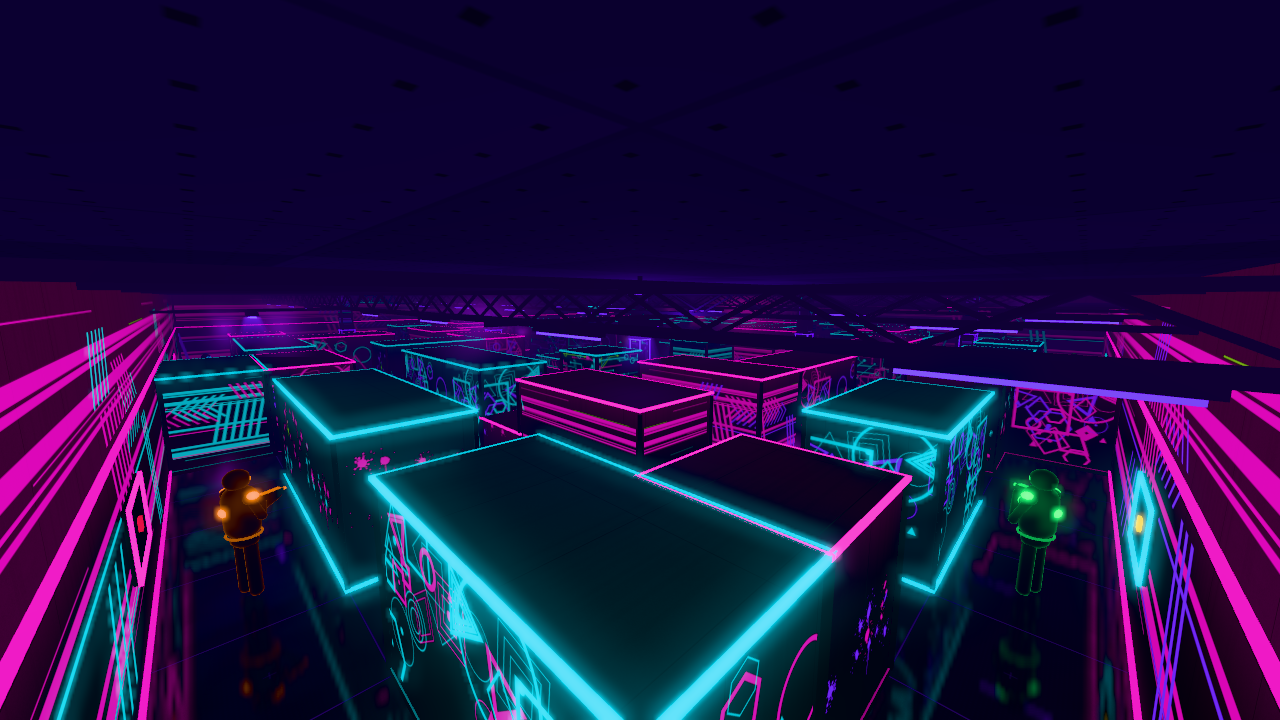
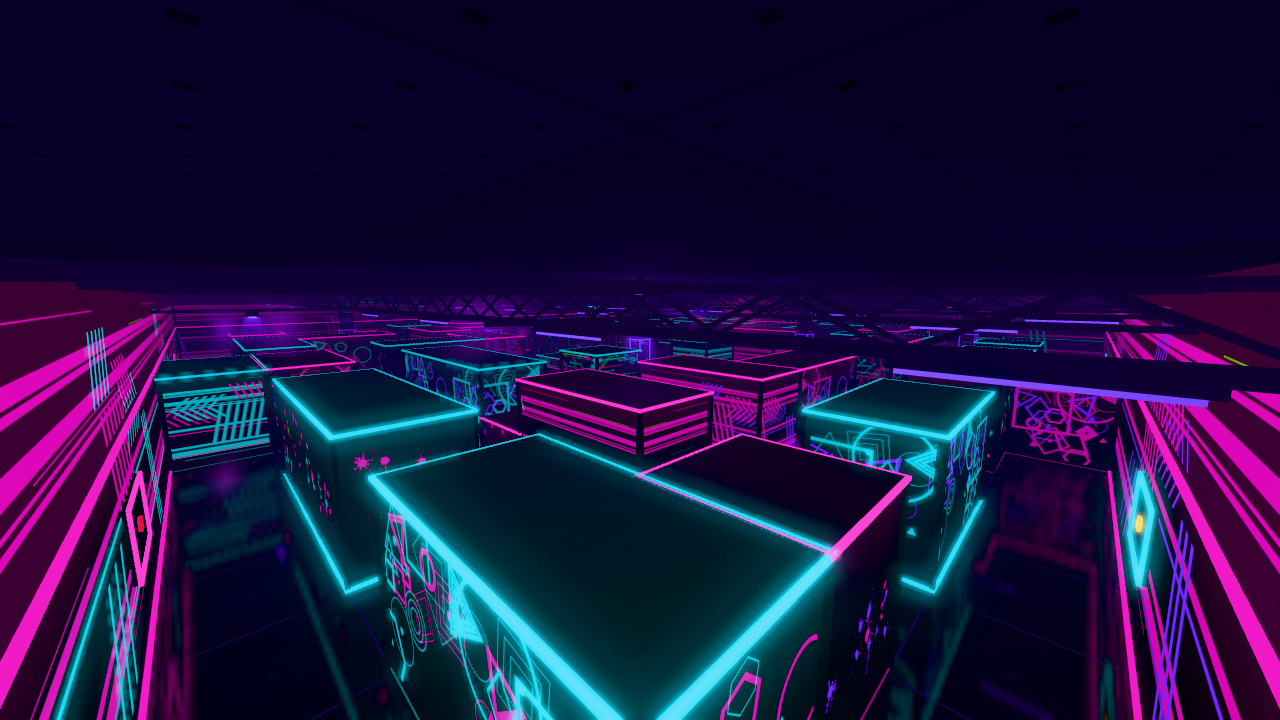
Raport 22:00: aktualne liczby testów i stan QA
Claude-Session: https://claude.ai/code/session_01AdB8daVQnwQrsSBW7UALhG

diff --git a/src/render/avatars.js b/src/render/avatars.js
@@ -7,16 +7,16 @@
 //    w kolorze uczestnika (instanceColor), + tani fresnel/rim w kolorze uczestnika (czytelna sylwetka w ciemności).
 //    aFx (na instancję) = mnożnik emisji: eliminacja → miganie, ochrona → pulsowanie.
 //  • sensory kamizelki — 4 instancje na uczestnika (front/back na klatce, lewe/prawe na ramionach,
-//    pozycje z CONFIG.combat.sensors), MeshBasicMaterial × instanceColor HDR: zapalony = kolor × sensorLit,
+//    pozycje z SENSOR_OFFSETS/CONFIG.combat.sensors), MeshBasicMaterial × instanceColor HDR: zapalony = kolor × sensorLit,
 //    zgaszony = ciemny, błysk = biały, eliminacja = miganie, ochrona = pulsowanie.
 // Model zwrócony w −Z (yaw = 0 patrzy w −Z, PLAN §0). sync bez alokacji (scratch na poziomie modułu).
 import * as THREE from 'three';
 import { mergeGeometries } from 'three/addons/utils/BufferGeometryUtils.js';
 import { CONFIG } from '../config.js';
-import { hexNumber } from './beams.js';
+import { hexNumber } from './color.js';
+import { SENSOR, SENSOR_OFFSETS, isSensorLit } from '../game/participant.js';
 
 const AV = CONFIG.avatar;
-const SENSOR_KEYS = ['front', 'back', 'left', 'right']; // = SENSOR {FRONT:0, BACK:1, LEFT:2, RIGHT:3}
 
 // scratch
 const _m = new THREE.Matrix4();
@@ -50,7 +50,7 @@ function limb(ax, ay, az, bx, by, bz, r, emit = 0) {
   const a = new THREE.Vector3(ax, ay, az), b = new THREE.Vector3(bx, by, bz);
   const d = b.clone().sub(a);
   const len = d.length();
-  const g = new THREE.CapsuleGeometry(r, Math.max(0.01, len), 3, 8);
+  const g = new THREE.CapsuleGeometry(r, Math.max(0.01, len), 2, 5);
   const m = new THREE.Matrix4().compose(
     a.clone().add(b).multiplyScalar(0.5),
     new THREE.Quaternion().setFromUnitVectors(new THREE.Vector3(0, 1, 0), d.normalize()),
@@ -64,12 +64,12 @@ function buildBodyGeometry() {
     // nogi + biodra
     limb(-0.11, 0.1, 0.0, -0.1, 0.78, 0.0, 0.085),
     limb(0.11, 0.1, 0.0, 0.1, 0.78, 0.0, 0.085),
-    part(new THREE.SphereGeometry(0.16, 12, 8), 0, trs(0, 0.86, 0, 0, 0, 0, 1.25, 0.7, 0.95)),
+    part(new THREE.SphereGeometry(0.16, 8, 5), 0, trs(0, 0.86, 0, 0, 0, 0, 1.25, 0.7, 0.95)),
     // tors (kamizelka): kapsuła spłaszczona
-    part(new THREE.CapsuleGeometry(0.2, 0.38, 4, 14), 0, trs(0, 1.27, 0, 0, 0, 0, 1.18, 1, 1.0)),
+    part(new THREE.CapsuleGeometry(0.2, 0.38, 3, 10), 0, trs(0, 1.27, 0, 0, 0, 0, 1.18, 1, 1.0)),
     // naramienniki
-    part(new THREE.SphereGeometry(0.095, 10, 8), 0, trs(-0.235, 1.5, 0, 0, 0, 0, 1, 0.85, 1)),
-    part(new THREE.SphereGeometry(0.095, 10, 8), 0, trs(0.235, 1.5, 0, 0, 0, 0, 1, 0.85, 1)),
+    part(new THREE.SphereGeometry(0.095, 7, 5), 0, trs(-0.235, 1.5, 0, 0, 0, 0, 1, 0.85, 1)),
+    part(new THREE.SphereGeometry(0.095, 7, 5), 0, trs(0.235, 1.5, 0, 0, 0, 0, 1, 0.85, 1)),
     // ramiona: fazer na wysokości barku (wylot = CONFIG.weapon.muzzleOffset względem oka — stąd startują wiązki botów)
     limb(0.25, 1.45, 0.0, 0.28, 1.22, -0.08, 0.06),
     limb(0.28, 1.22, -0.08, 0.2, 1.36, -0.15, 0.055),
@@ -77,16 +77,16 @@ function buildBodyGeometry() {
     limb(-0.25, 1.45, 0.0, -0.17, 1.08, -0.2, 0.06),
     limb(-0.17, 1.08, -0.2, 0.15, 1.37, -0.38, 0.055),
     // szyja + hełm + wizjer (emisyjny, łuk z przodu)
-    part(new THREE.CylinderGeometry(0.06, 0.07, 0.1, 8), 0, trs(0, 1.64, 0)),
-    part(new THREE.SphereGeometry(0.145, 14, 10), 0, trs(0, 1.75, 0.01, 0, 0, 0, 1, 1.02, 1.08)),
-    part(new THREE.CylinderGeometry(0.152, 0.148, 0.055, 14, 1, true, Math.PI - 0.95, 1.9), AV.visorIntensity, trs(0, 1.75, 0.005)),
+    part(new THREE.CylinderGeometry(0.06, 0.07, 0.1, 6, 1, true), 0, trs(0, 1.64, 0)),
+    part(new THREE.SphereGeometry(0.145, 10, 7), 0, trs(0, 1.75, 0.01, 0, 0, 0, 1, 1.02, 1.08)),
+    part(new THREE.CylinderGeometry(0.152, 0.148, 0.055, 10, 1, true, Math.PI - 0.95, 1.9), AV.visorIntensity, trs(0, 1.75, 0.005)),
     // pas (emisyjny, słaby) — linia talii czytelna z daleka
-    part(new THREE.TorusGeometry(0.205, 0.016, 6, 24), AV.trimIntensity * 0.6, trs(0, 0.95, 0, Math.PI / 2, 0, 0, 1.12, 0.92, 1)),
+    part(new THREE.TorusGeometry(0.205, 0.016, 3, 14), AV.trimIntensity * 0.6, trs(0, 0.95, 0, Math.PI / 2, 0, 0, 1.12, 0.92, 1)),
     // fazer w dłoniach (wylot ≈ (0.22, 1.47, −0.45))
     part(new THREE.BoxGeometry(0.07, 0.09, 0.36), 0, trs(0.2, 1.44, -0.25)),
     part(new THREE.BoxGeometry(0.045, 0.11, 0.055), 0, trs(0.2, 1.36, -0.14, 0.3, 0, 0)),
     part(new THREE.BoxGeometry(0.075, 0.016, 0.26), AV.trimIntensity, trs(0.2, 1.492, -0.27)),
-    part(new THREE.CylinderGeometry(0.024, 0.024, 0.05, 8), AV.visorIntensity, trs(0.21, 1.46, -0.445, Math.PI / 2, 0, 0)),
+    part(new THREE.CylinderGeometry(0.024, 0.024, 0.05, 6), AV.visorIntensity, trs(0.21, 1.46, -0.445, Math.PI / 2, 0, 0)),
   ];
   const g = mergeGeometries(parts, false);
   for (const p of parts) p.dispose();
@@ -95,7 +95,7 @@ function buildBodyGeometry() {
 
 // pad sensora: spłaszczona półkula, normalna wzdłuż +Z
 function buildSensorGeometry() {
-  const g = new THREE.SphereGeometry(1, 14, 8, 0, Math.PI * 2, 0, Math.PI / 2);
+  const g = new THREE.SphereGeometry(1, 8, 4, 0, Math.PI * 2, 0, Math.PI / 2);
   g.rotateX(Math.PI / 2); // biegun (+Y) → +Z
   g.scale(0.075, 0.06, 0.035);
   g.deleteAttribute('uv');
@@ -104,16 +104,15 @@ function buildSensorGeometry() {
 
 // lokalne macierze sensorów (model w −Z: przód = −Z, prawo = +X)
 function buildSensorLocals() {
-  const S = CONFIG.combat.sensors;
   const out = [];
   for (let i = 0; i < 4; i++) {
-    const o = S[SENSOR_KEYS[i]];
-    const x = o[0], y = o[1], z = -o[2];
+    // SENSOR_OFFSETS: x prawo, y od stóp, z przód → model: z = −przód
+    const x = SENSOR_OFFSETS[i * 3], y = SENSOR_OFFSETS[i * 3 + 1], z = -SENSOR_OFFSETS[i * 3 + 2];
     let rx = 0, ry = 0;
-    if (i === 0) ry = Math.PI;                 // przód: pad patrzy w −Z
-    else if (i === 1) ry = 0;                  // tył: +Z
-    else if (i === 2) { ry = -Math.PI / 2; rx = -0.75; } // lewe ramię: −X, uniesione ku górze
-    else { ry = Math.PI / 2; rx = -0.75; }     // prawe ramię: +X
+    if (i === SENSOR.FRONT) ry = Math.PI;      // przód: pad patrzy w −Z
+    else if (i === SENSOR.BACK) ry = 0;        // tył: +Z
+    else if (i === SENSOR.LEFT) { ry = -Math.PI / 2; rx = -AV.shoulderTilt; } // lewe ramię: −X, uniesione ku górze
+    else { ry = Math.PI / 2; rx = -AV.shoulderTilt; }                        // prawe ramię: +X
     const m = new THREE.Matrix4();
     const q = new THREE.Quaternion().setFromEuler(new THREE.Euler(rx, ry, 0, 'YXZ'));
     m.compose(new THREE.Vector3(x, y, z), q, new THREE.Vector3(1, 1, 1));
@@ -180,10 +179,9 @@ export function createAvatars(scene, maxCount) {
   sensors.count = 0;
 
   const locals = buildSensorLocals();
-  // ranga sensora w kolejności gaśnięcia: zgaszony, gdy rank < 4 − sensorsLit
-  const rank = new Int8Array(4);
-  const lose = CONFIG.combat.loseOrder;
-  for (let i = 0; i < 4; i++) rank[i] = lose.indexOf(SENSOR_KEYS[i]);
+  // cache koloru per slot instancji: hex liczony tylko przy zmianie stringu koloru (porównanie referencji)
+  const colStr = new Array(maxCount).fill(null);
+  const colRGB = new Float32Array(maxCount * 3);
 
   scene.add(body);
   scene.add(sensors);
@@ -213,18 +211,21 @@ export function createAvatars(scene, maxCount) {
       else if (P.protectTimer > 0) fx = 1 + AV.protectBoost * (0.5 + 0.5 * Math.sin(time * TAU * AV.protectPulseHz));
       fxAttr.array[j] = fx;
 
-      _c.setHex(hexNumber(P.color));
-      body.setColorAt(j, _c);
-      const cr = _c.r, cg = _c.g, cb = _c.b;
-
-      const lit = P.sensorsLit;
+      if (P.color !== colStr[j]) {
+        colStr[j] = P.color;
+        _c.setHex(hexNumber(P.color));
+        colRGB[j * 3] = _c.r; colRGB[j * 3 + 1] = _c.g; colRGB[j * 3 + 2] = _c.b;
+        body.setColorAt(j, _c);
+        body.instanceColor.needsUpdate = true;
+      }
+      const cr = colRGB[j * 3], cg = colRGB[j * 3 + 1], cb = colRGB[j * 3 + 2];
       for (let s = 0; s < 4; s++) {
         const k = j * 4 + s;
         _ms.multiplyMatrices(_m, locals[s]);
         sensors.setMatrixAt(k, _ms);
         let I;
         if (elim) I = AV.sensorLit * fx;
-        else if (rank[s] < 4 - lit) I = AV.sensorOff;
+        else if (!isSensorLit(P, s)) I = AV.sensorOff;
         else I = AV.sensorLit * (P.protectTimer > 0 ? fx : 1);
         _c.setRGB(cr * I, cg * I, cb * I);
         const fl = P.sensorFlash[s];
@@ -240,7 +241,6 @@ export function createAvatars(scene, maxCount) {
     body.count = j;
     sensors.count = j * 4;
     body.instanceMatrix.needsUpdate = true;
-    body.instanceColor.needsUpdate = true;
     sensors.instanceMatrix.needsUpdate = true;
     sensors.instanceColor.needsUpdate = true;
     fxAttr.needsUpdate = true;

diff --git a/src/config.js b/src/config.js
@@ -193,7 +193,7 @@ export const CONFIG = Object.freeze({
       rubber: { color: '#0b0a12', baseHeight: 0.1, baseDepth: 0.022, cornerSize: 0.06, cornerInset: 0.012, lineSize: 0.014, lineIntensity: 0.3 },
       paintMargin: { edge: 0.09, bottom: 0.17, strip: 0.09 },   // farba nie dochodzi do krawędzi/listew (m)
       neon: { nearMin: 0.6, near: [0.6, 3.5], fog: 0.65 },      // przygaszenie bliskich listew; udział mgły na listwach
-      ceilingPool: { radius: 3.2, strength: 0.15, panelRef: 0.006 },            // plamy światła lamp na stropie
+      ceilingPool: { radius: 2.8, strength: 0.06, panelRef: 0.006 },            // plamy światła lamp na stropie
       spawnPanel: { width: 1.6, height: 0.9, depth: 0.04, y: 1.45, intensity: 0.9, marker: 0.16 },
       floorRoughness: 0.75,         // × roughnessMap (≈0.6) → ~0.45 (półpołysk)
       floorMetalness: 0.2,
@@ -204,7 +204,7 @@ export const CONFIG = Object.freeze({
       envBakeHeight: 1.6,
       envBlur: 0.02,
       ceilingTile: 4.8,
-      ceilingGlow: 2.4,             // emisja paneli sufitu (tekstura × palette.uv)
+      ceilingGlow: 1.8,             // emisja paneli sufitu (tekstura × palette.uv)
       trussColor: '#2a2638',
       trussGlow: 0.035,             // emisja kratownicy (palette.uv) — sylwetki belek czytelne w ciemności
       trussSpacing: 4,
@@ -323,6 +323,7 @@ export const CONFIG = Object.freeze({
     sensorLit: 1.8,
     sensorOff: 0.035,
     sensorFlash: 4.0,
+    shoulderTilt: 0.75,       // rad — pochylenie padów na ramionach ku górze
     elimBlinkHz: 6,
     elimDim: 0.12,            // jasność w fazie „zgaszonej” mrugania
     protectPulseHz: 3,

diff --git a/src/ui/hud.js b/src/ui/hud.js
@@ -6,23 +6,11 @@
 // wskaźnik ochrony, feed eliminacji (ostatnie N, znikają), wynik gracza.
 import { CONFIG } from '../config.js';
 import { EV } from '../core/events.js';
+import { findParticipant } from '../game/sim.js';
+import { el } from './dom.js';
 
 const H = CONFIG.hud;
 const MAX_HP = CONFIG.combat.maxHp;
-
-function el(parent, cls, text) {
-  const e = document.createElement('div');
-  e.className = cls;
-  if (text) e.textContent = text;
-  parent.appendChild(e);
-  return e;
-}
-
-function findById(sim, id) {
-  const ps = sim.participants;
-  for (let i = 0; i < ps.length; i++) if (ps[i].id === id) return ps[i];
-  return null;
-}
 
 // kwantyzacja do kroku — mniej zapisów do DOM przy płynnych wartościach
 function q(v, step) { return Math.round(v / step) * step; }
@@ -112,7 +100,7 @@ export function createHud(rootEl) {
         if (e.a === id && e.b !== id) { hitT = H.hitmarkerTime; }
       } else if (e.type === EV.ELIM) {
         if (e.a === id && e.b !== id) { hitT = H.hitmarkerTime * 1.6; hitKill = 1; }
-        pushFeed(findById(sim, e.a), findById(sim, e.b), e.a === id || e.b === id ? 1 : 0);
+        pushFeed(findParticipant(sim, e.a), findParticipant(sim, e.b), e.a === id || e.b === id ? 1 : 0);
       }
     }
   }
@@ -196,7 +184,7 @@ export function createHud(rootEl) {
     const by = player.lastHitBy;
     if (by !== cElimBy) {
       cElimBy = by;
-      const k = by >= 0 && by !== player.id ? findById(sim, by) : null;
+      const k = by >= 0 && by !== player.id ? findParticipant(sim, by) : null;
       if (k) {
         elimBy.textContent = 'przez ' + k.name;
         elimBy.style.color = k.color;

diff --git a/docs/REPORT-22-00.md b/docs/REPORT-22-00.md
@@ -22,7 +22,7 @@ W repo **nie było `docs/SPEC.md` ani `reference/ref1–4.png`** (ani na Google 
 | **M3 Tryby** | `modes`, `match`, `menu`, `scoreboard`, `matchBar`, `endScreen`, `menu.css` | Pełny mecz od menu do ekranu końca w każdym trybie | Moduły i testy: ✅ (9)<br>**Integracja: ⏳** |
 | **M4 Mapy** | `maps/neonhive.js`, `maps/reactor.js` (2 poziomy, galeria 3.2 m, 4 rampy, rdzeń) | Pętla wizualna dla obu map; boty nawigują na obu poziomach | Dane i nawigacja: ✅ (100% osiągalności, 2000/2000 ścieżek, 623 międzypoziomowe)<br>**Render dekoracji i pętla wizualna: ⏳** |
 
-Testy: `npm test` daje **192 testy, 191 pass, 0 fail, 1 todo** (tunelowanie przy dt = 1 s — świadomie pominięte). `npm run smoke` daje **3 mapy × 4 presety: 0 błędów i ostrzeżeń konsoli, wszystko w budżecie, wycieki 0**.
+Testy: `npm test` daje **198 testów, 197 pass, 0 fail, 1 todo** (tunelowanie przy dt = 1 s — świadomie pominięte). `npm run smoke` daje **3 mapy × 4 presety: 0 błędów i ostrzeżeń konsoli, wszystko w budżecie, wycieki 0**.
 
 ## 2. Pętla wizualna (SPEC §6)
 
@@ -83,13 +83,9 @@ Broń FPP była przepalona — poprawione.
 1. **Jakość wizualna M0.** Dwie iteracje dały 4/12, a recenzenci są surowi i niezależni. Bez zdjęć referencyjnych kryterium „nastroju" (pkt 12) jest subiektywne. Plan: maksymalnie 2–3 kolejne iteracje, a jeśli punkt utknie, zapisuję to w raporcie.
 2. **Zrzuty w SwiftShader są wolne** (~30 s na kadr), co spowalnia pętlę wizualną.
 3. **Odbicie planarne a drugi poziom.** Lustro y = 0 nie działa z drugim poziomem (Reactor) — coder grafiki to obsługuje.
-4. **Ustalenia QA w toku:**
-   - obsługa `webglcontextlost` i braku WebGL;
-   - gubione krótkie kliknięcia (fire jako zbocze);
-   - sanityzacja wejścia pod M5;
-   - fazy kroku symulacji;
-   - duplikaty helperów;
-   - liczby poza CONFIG.
+4. **Ustalenia QA** (27 pozycji, 0 krytycznych):
+   - naprawione: serwer dev (crash na złym URL, ekspozycja `.git`), alokacje `pickSpawn` i botów, sanityzacja wejścia, 3 fazy kroku symulacji (pod M5);
+   - w toku: obsługa `webglcontextlost` i braku WebGL, fire jako zbocze, duplikaty helperów, liczby poza CONFIG.
 5. **Przy 16 uczestnikach** (pod M5) Neon Hive na Low zbliża się do limitu trójkątów — w toku redukcja siatki awatara.
 
 ## 6. Następne kroki
